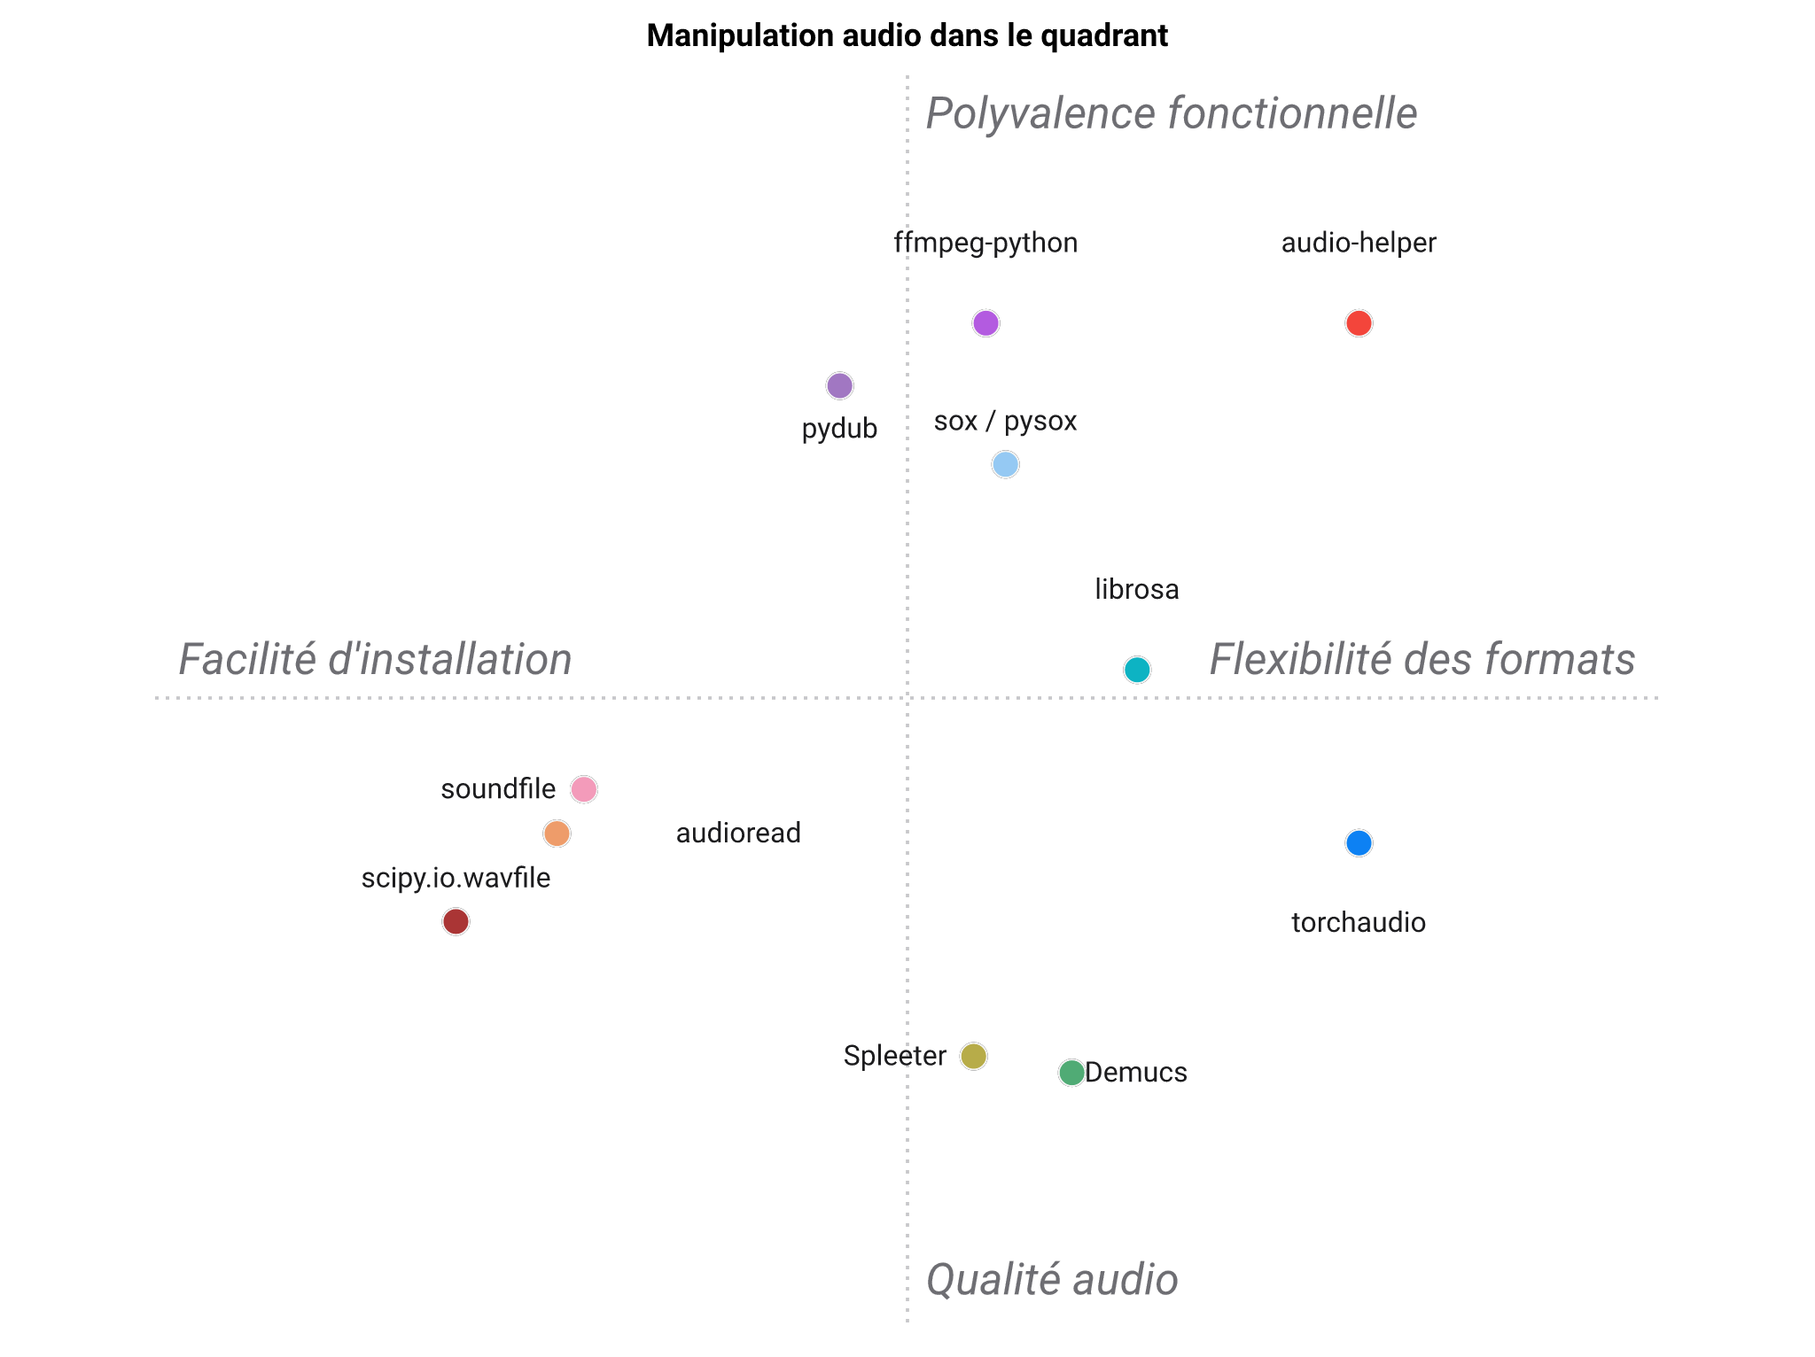
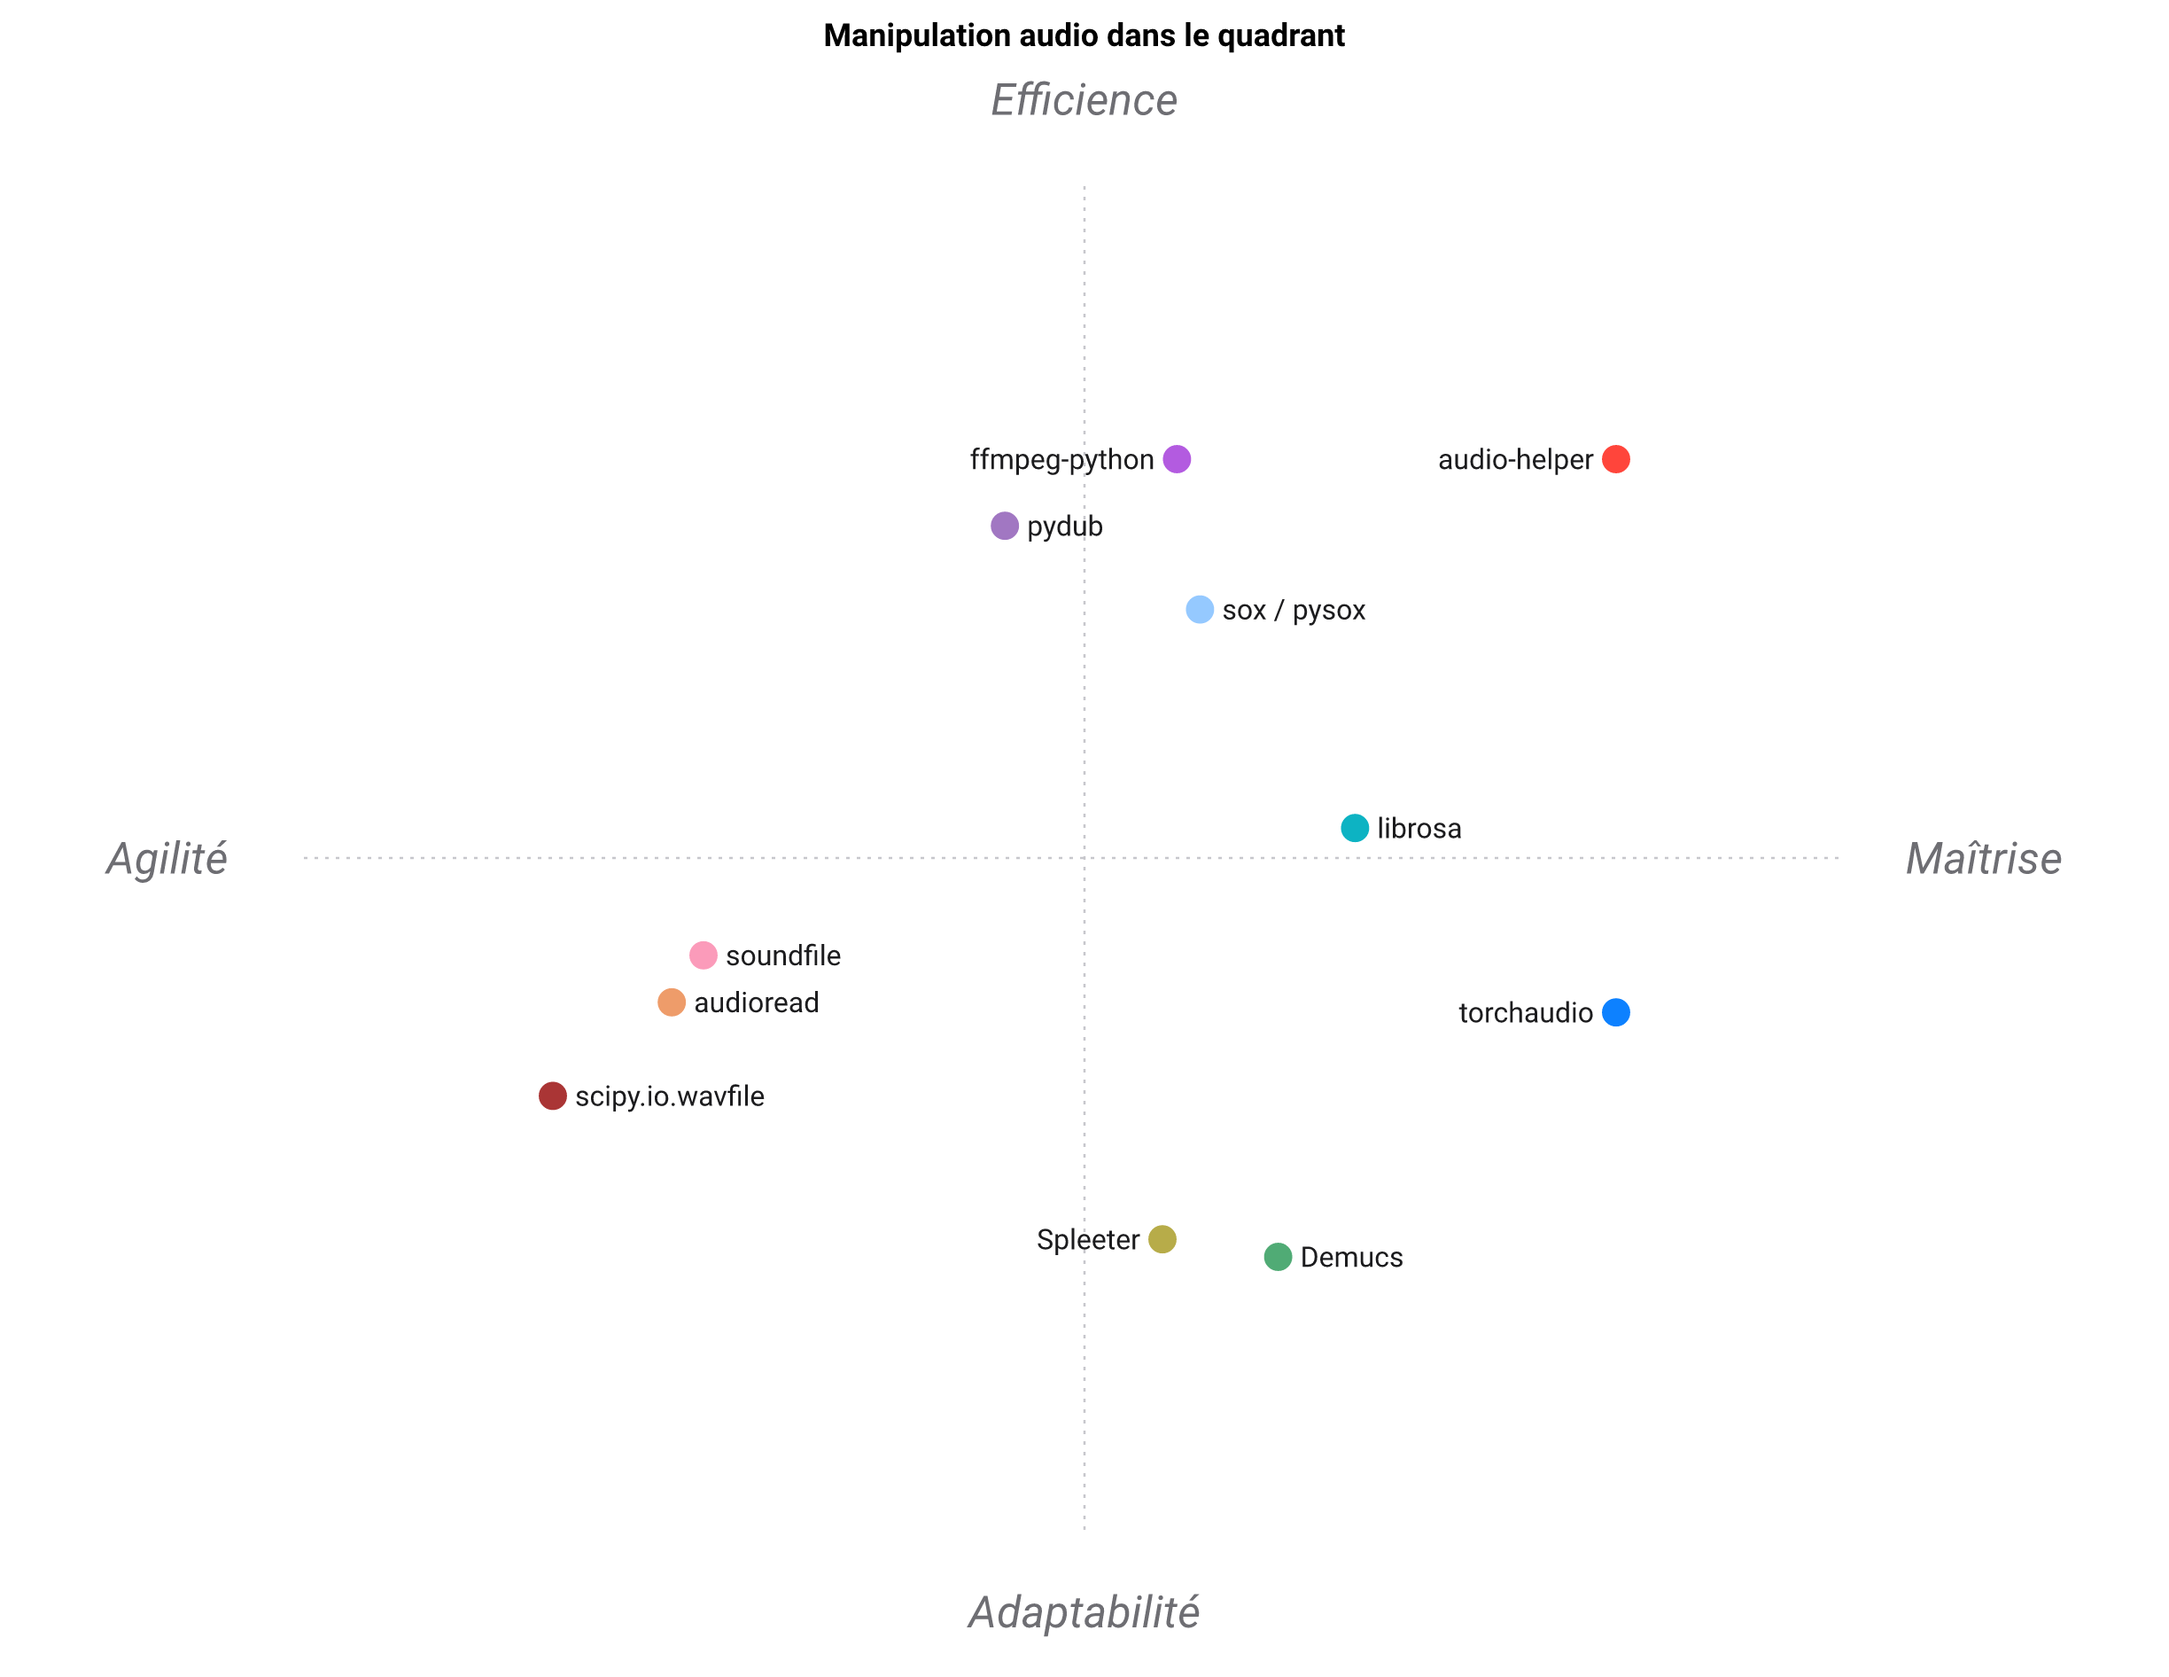
docs: regenerate LANDSCAPE/PAYSAGE positioning figures
Rerun via gen_landscape.py against the current standpoint (Vega retired,
SVG+resvg_py rasterisation pipeline).

diff --git a/PAYSAGE.md b/PAYSAGE.md
@@ -37,7 +37,7 @@ Représentation 2D du tableau ci-dessus.
 
 ![Carte de positionnement](https://raw.githubusercontent.com/warith-harchaoui/audio-helper/main/assets/paysage.png)
 
-La carte est un résumé en 2D des 8 critères : à lire comme une forme, pas comme un classement. « audio-helper » se situe dans le coin en haut à droite. Les axes se lisent **Horizontal — Facilité d'installation ↔ Flexibilité des formats** et **Vertical — Qualité audio ↔ Polyvalence fonctionnelle**.
+La carte est un résumé en 2D des 8 critères : à lire comme une forme, pas comme un classement. « audio-helper » se situe dans le coin en haut à droite. Les axes se lisent **Horizontal — Agilité ↔ Maîtrise** et **Vertical — Adaptabilité ↔ Efficience**.
 <!-- FIGURE:END -->
 
 ## Positionnement

diff --git a/LANDSCAPE.md b/LANDSCAPE.md
@@ -35,7 +35,7 @@ is not penalised — the score just reflects fit to *this* niche.
 
 ![Positioning map](https://raw.githubusercontent.com/warith-harchaoui/audio-helper/main/assets/landscape.png)
 
-The map is a 2-D summary of the eight criteria, so read it as a shape, not a scoreboard. `audio-helper` is at the top-right corner. The axes read **Horizontal — Compact ↔ Versatile** and **Vertical — Efficient ↔ User-friendly**.
+The map is a 2-D summary of the eight criteria, so read it as a shape, not a scoreboard. `audio-helper` is at the top-right corner. The axes read **Horizontal — Adaptable ↔ Ingenious** and **Vertical — Resourceful ↔ Flexible**.
 <!-- FIGURE:END -->
 
 ## Positioning
